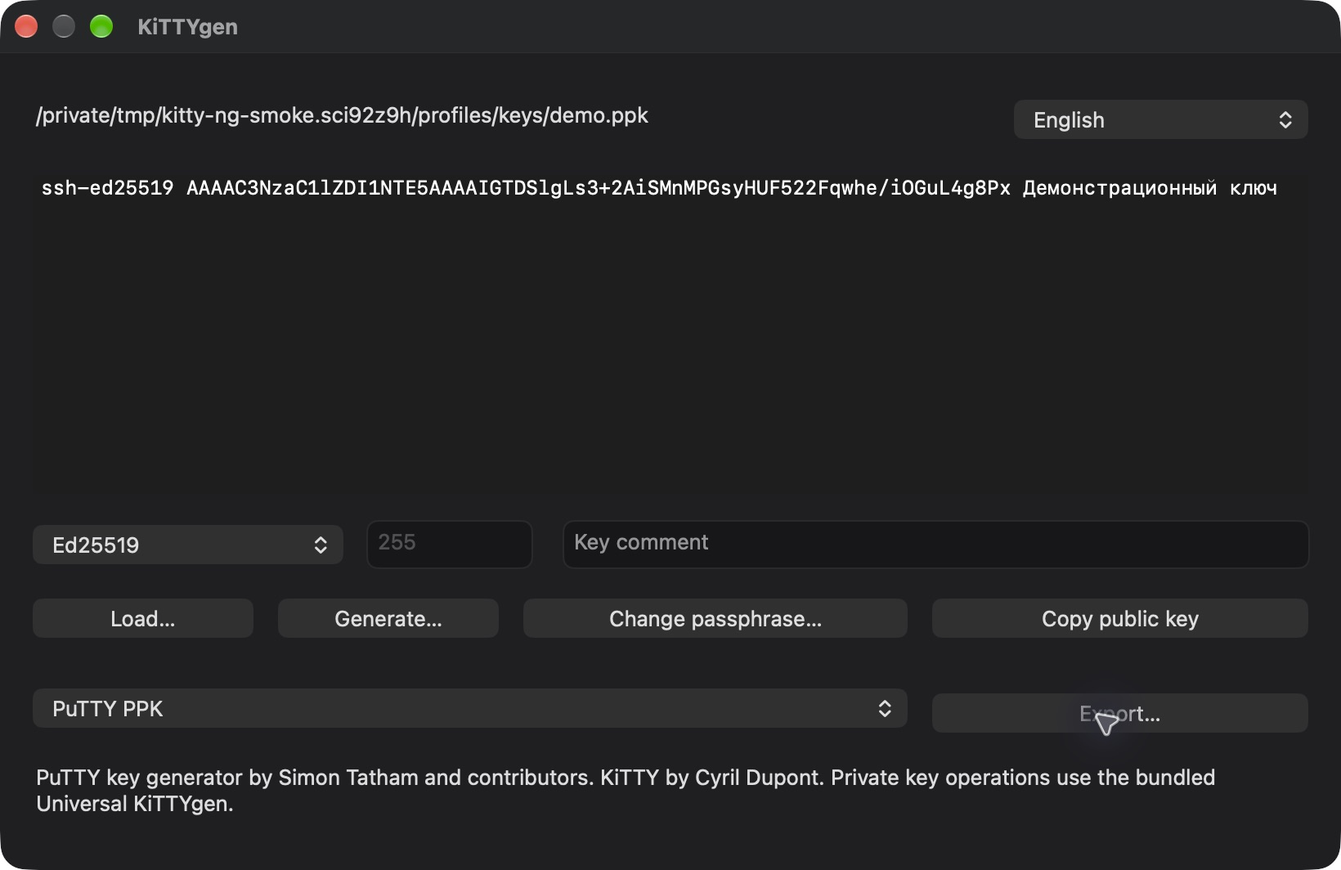
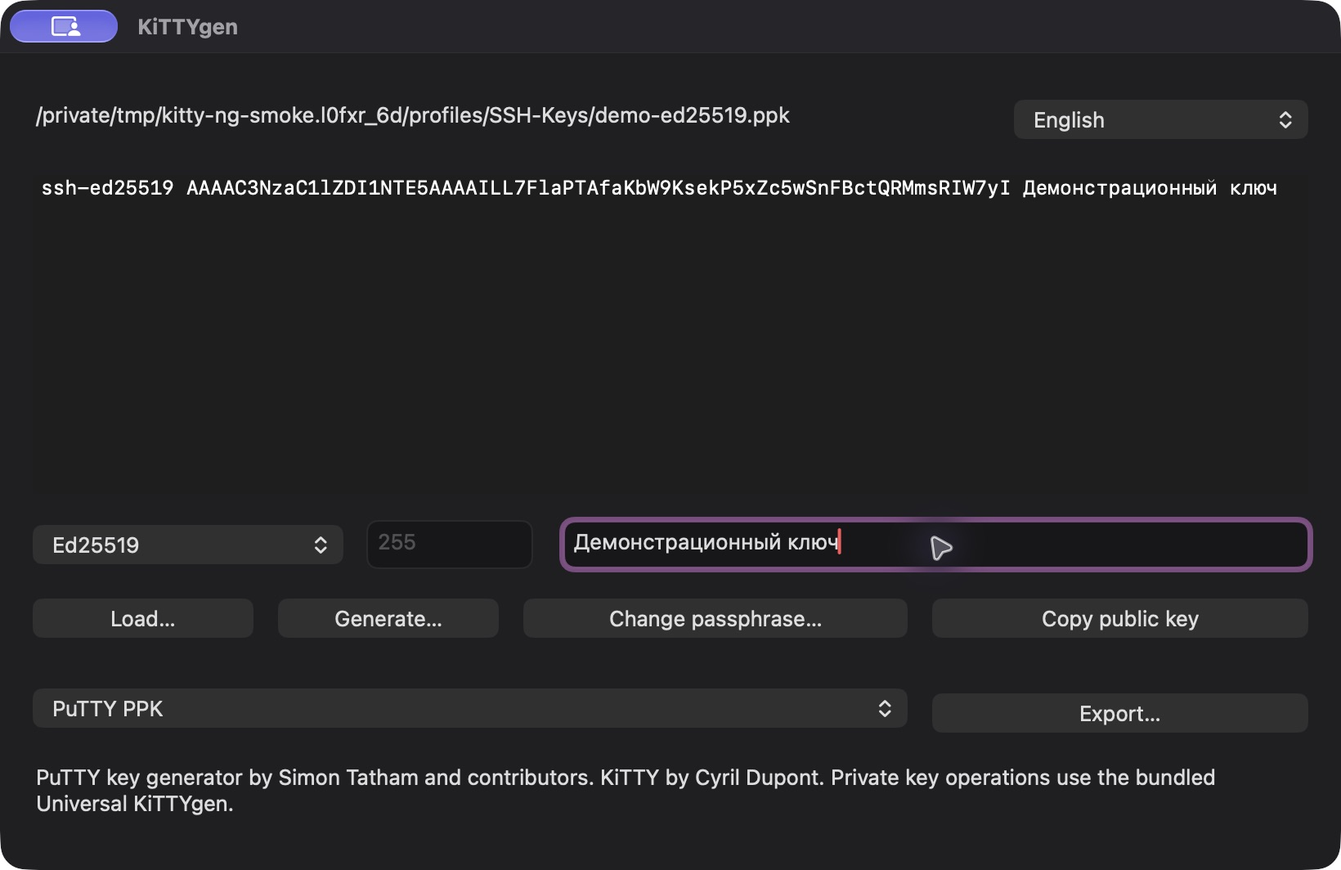
Проверить macOS 0.85-6 и подготовить общий коммит для финальной сборки

diff --git a/tools/macos-reuse-runtime.py b/tools/macos-reuse-runtime.py
@@ -1,0 +1,72 @@
+"""Reuse same-version helper acceptance only for byte-identical Mach-O payloads.
+
+Ignore only the embedded 40-byte source commit, LC_UUID and native code signatures.
+Version strings, executable instructions, other constants and all slice structure
+remain part of the comparison. Original execution hashes/results are retained.
+"""
+import argparse
+import hashlib
+import importlib.util
+import json
+from pathlib import Path
+import struct
+
+ROOT=Path(__file__).resolve().parents[1]
+spec=importlib.util.spec_from_file_location('verify_macos',ROOT/'tools/verify-macos.py')
+validator=importlib.util.module_from_spec(spec);spec.loader.exec_module(validator)
+
+
+def fingerprint(path,commit):
+    assert len(commit)==40
+    result={}
+    for cpu,raw in validator.slices(path.read_bytes()):
+        data=bytearray(raw)
+        assert data[:4]==b'\xcf\xfa\xed\xfe'
+        cursor=32
+        for _ in range(struct.unpack_from('<I',data,16)[0]):
+            command,size=struct.unpack_from('<II',data,cursor)
+            assert size>=8 and cursor+size<=len(data)
+            if command==0x1b:
+                assert size==24;data[cursor+8:cursor+24]=bytes(16)
+            elif command==0x1d:
+                offset,length=struct.unpack_from('<II',data,cursor+8)
+                assert offset+length<=len(data);data[offset:offset+length]=bytes(length)
+            cursor+=size
+        assert commit.encode() in data,'Missing embedded source commit'
+        result[str(cpu)]=hashlib.sha256(bytes(data).replace(commit.encode(),b'0'*40)).hexdigest()
+    return result
+
+
+def main():
+    parser=argparse.ArgumentParser(description=__doc__)
+    parser.add_argument('mode',choices=('capture','reuse'))
+    parser.add_argument('--output',type=Path,default=ROOT/'dist/macos-native')
+    parser.add_argument('--evidence',type=Path,required=True)
+    args=parser.parse_args();dest=args.output
+    build=json.loads((dest/'macos-build.json').read_text())
+    assert build['status']=='success' and not build['working_tree_dirty']
+    commit=build['source_commit'];helpers=dest/'KiTTY-ng.app/Contents/Helpers'
+    hashes={p.name:hashlib.sha256(p.read_bytes()).hexdigest() for p in helpers.iterdir() if p.is_file()}
+    payloads={name:fingerprint(helpers/name,commit) for name in hashes}
+    if args.mode=='capture':
+        reports={arch:json.loads((dest/f'runtime-{arch}.json').read_text()) for arch in ('arm64','x86_64')}
+        for arch,report in reports.items():
+            assert report['status']=='passed' and report['binaries_sha256']==hashes
+        args.evidence.write_text(json.dumps(dict(build=build,payloads=payloads,execution_reports=reports),indent=2)+'\n')
+        print('Saved exact same-version execution evidence:',commit)
+    else:
+        prior=json.loads(args.evidence.read_text());old=prior['build']
+        assert old['version']==build['version']
+        for key in ('compiler','sdk','deployment_target'):assert old[key]==build[key]
+        assert payloads==prior['payloads'],'Helper payload changed: execute affected runtime checks'
+        for arch,tested in prior['execution_reports'].items():
+            report=dict(tested)
+            report.update(version=build['version'],source_commit=commit,binaries_sha256=hashes,
+                tested_source_commit=old['source_commit'],tested_binaries_sha256=tested['binaries_sha256'],
+                execution_reused=True,reuse_proof='All helper Mach-O bytes equal after excluding only commit string, LC_UUID and code signature',
+                payload_sha256=payloads)
+            (dest/f'runtime-{arch}.json').write_text(json.dumps(report,indent=2)+'\n')
+        print('PASS: exact helper payload equality; previous same-version SSH/SCP/SFTP/agent results reused')
+
+
+if __name__=='__main__':main()

diff --git a/tools/macos-native-build.py b/tools/macos-native-build.py
@@ -95,16 +95,17 @@ def main():
         all(previous.get(k) == report[k] for k in ('compiler','sdk','deployment_target'))):
         changed = output(['git','diff','--name-only',previous['source_commit'],report['source_commit']]).splitlines()
         source_changes = [p for p in changed if Path(p).suffix in ('.c','.h','.m','.cmake','.pl') or Path(p).name in ('CMakeLists.txt','VERSION')]
-        # The session browser does not affect protocol units, helper binaries,
-        # key interoperability or the existing language/portable smoke cases.
-        reuse_unaffected = source_changes == ['macos/bootstrap.m'] and not any(
+        # App-only Objective-C changes do not affect core units or helpers.
+        # Changed localization/UI smoke cases are rerun separately below.
+        reuse_unaffected = bool(source_changes) and set(source_changes)<=set((
+            'macos/bootstrap.m','macos/language.m','macos/selftest-ui.m')) and not any(
             p in changed for p in ('test/macos_native_keys.py','macos/Smoke-test KiTTY-ng.command'))
         if reuse_unaffected:
             old_helpers=dest/'KiTTY-ng.app/Contents/Helpers'
             report['unchanged_helper_evidence']=dict(source_commit=previous['source_commit'],
                 changed_source_files=source_changes,
                 tested_binaries_sha256={p.name:hashlib.sha256(p.read_bytes()).hexdigest() for p in old_helpers.iterdir() if p.is_file()})
-            report['reused_checks_reason']='Only the native session-browser implementation changed; existing core/helper/language tests are unaffected'
+            report['reused_checks_reason']='Only app-specific Objective-C changed; existing core/helper tests are unaffected; changed UI smoke cases run again'
     report['fingerprint'] = fingerprint
     environment = os.environ.copy()
     environment.update(LC_ALL='C', LANG='C')
@@ -145,6 +146,8 @@ def main():
                     print('REUSE: unchanged compilation', arch, flush=True)
                 binaries[arch] = cache
                 checks = dict(previous.get('native_tests',{}).get(arch,{})) if previous.get('fingerprint')==fingerprint or reuse_unaffected else {}
+                if reuse_unaffected and any(p in source_changes for p in ('macos/language.m','macos/selftest-ui.m')):
+                    checks.pop('smoke',None)
                 report['native_tests'][arch] = checks
                 for name in UNIT_TESTS:
                     if checks.get(name)=='passed' and not args.force_tests:

diff --git a/test/macos_native_runtime.py b/test/macos_native_runtime.py
@@ -25,6 +25,7 @@ def main():
     parser.add_argument('--gui-fixture',type=Path,help='Expose this disposable server for native UI acceptance until the app quits')
     parser.add_argument('--gui-scp',action='store_true')
     parser.add_argument('--gui-automation',action='store_true')
+    parser.add_argument('--gui-key-auth',action='store_true',help='Require the disposable client key in GUI acceptance')
     parser.add_argument('--proxies-only',action='store_true',help='Run only new loopback HTTP/SOCKS5 proxy checks')
     args=parser.parse_args()
     helpers=args.app.resolve()/'Contents/Helpers'
@@ -49,7 +50,7 @@ def main():
         env['KITTY_NG_PORTABLE_DIR']=str(settings)
         env.pop('KITTY_NG_GUI_PROMPTS',None)
         env.pop('SSH_AUTH_SOCK',None)
-        mode={'auth':'password'}
+        mode={'auth':'publickey' if args.gui_fixture and args.gui_key_auth else 'password'}
         gui_state={'connections':0,'commands':[],'outage_injected':False}
         def update_gui():
             if args.gui_fixture:
@@ -263,6 +264,9 @@ def main():
                 return
             if args.gui_fixture:
                 save_profile()
+                if args.gui_key_auth:
+                    empty=root/'empty-passphrase';empty.write_text('\n')
+                    invoke('kittygen',settings/'SSH-Keys/client.openssh','-O','private','-o',settings/'SSH-Keys/client.ppk','--new-passphrase',empty)
                 with profile.open('a') as stream:
                     destination="/приём с пробелами'$(literal)" if args.gui_scp else '/'
                     resolve(destination).mkdir(exist_ok=True)

diff --git a/macos/language.m b/macos/language.m
@@ -40,7 +40,10 @@ NSString *kr_mac_localize_string(NSString *text){
 
     for(size_t i=0;i<lenof(ui_strings);i++){NSString *en=[NSString stringWithUTF8String:ui_strings[i].en],*ru=[NSString stringWithUTF8String:ui_strings[i].ru];if([text isEqualToString:en]||[text isEqualToString:ru])return kr_mac_language()?ru:en;}return text;
 }
-void kr_mac_localize_menu(NSMenu *menu){for(NSMenuItem *item in menu.itemArray){item.title=kr_mac_localize_string(item.title);if(item.submenu)kr_mac_localize_menu(item.submenu);}}
+void kr_mac_localize_menu(NSMenu *menu){
+    menu.title=kr_mac_localize_string(menu.title);
+    for(NSMenuItem *item in menu.itemArray){item.title=kr_mac_localize_string(item.title);if(item.submenu)kr_mac_localize_menu(item.submenu);}
+}
 void kr_mac_localize_view(NSView *view){
     if([view.identifier isEqualToString:@"KiTTYNG.RawData"])return;
     /* Never recurse into AppKit controls: their private buttons/cells have

diff --git a/macos/selftest-ui.m b/macos/selftest-ui.m
@@ -29,6 +29,13 @@ int kr_mac_self_test_ui(void){
     CHECK([edit itemAtIndex:2].action==@selector(paste:));
     CHECK([edit itemAtIndex:3].action==@selector(selectAll:));
     for(NSMenuItem *item in edit.itemArray)CHECK(item.target==nil&&item.keyEquivalent.length==1);
+    for(int language=0;language<2;language++){
+        CHECK(kr_mac_set_language(language));kr_mac_localize_menu(app.mainMenu);
+        NSString *title=language?@"Изменить":@"Edit";
+        CHECK([edit.title isEqualToString:title]);
+        CHECK([app.mainMenu.itemArray.lastObject.title isEqualToString:title]);
+        CHECK([[edit itemAtIndex:1].title isEqualToString:language?@"Копировать":@"Copy"]);
+    }
     CHECK(kr_mac_test_keygen_ui()==0);
     puts("PASS: native AppKit language round-trips, search cell/data preserved, stable language names, initial SSH/22 defaults");return 0;
 #undef CHECK

diff --git a/docs/releases/0.85-6-windows-return.md b/docs/releases/0.85-6-windows-return.md
@@ -1,0 +1,45 @@
+# Обратная передача 0.85-6 из Mac-чата
+
+Mac-пакет готовится в той же синхронизируемой папке KiTTY-NG. Версию **0.85-6** повторно не повышать. Исходная Windows/Linux-база — `b31bc612a6660acbc83d5ec2e8916fb7da835e28`.
+
+Точный итоговый коммит, SHA-256 DMG, инструменты и состояние происхождения записываются в `dist/macos-native/macos-0.85-6-delivery.json`. Источник передаётся локальным Git bundle `dist/macos-source-0.85-6.bundle`; коммит также виден в Git Mac-копии. Пакет — `dist/macos-native/kitty-ng-0.85-6-macos-universal.dmg`.
+
+## Изменения после b31bc61
+
+- Исправлена локализация заголовка NSMenu: при RU→EN заголовок «Изменить» оставался русским, хотя пункты переводились. `macos/language.m` теперь переводит и сам NSMenu, в `macos/selftest-ui.m` добавлен regression test RU/EN.
+- В loopback fixture добавлен режим `--gui-key-auth` для реального быстрого подключения с закрытым ключом.
+- Пересняты четыре Mac-окна RU/EN с синтетическими профилями/ключом. Дополнены документация и заметки выпуска; README RU/EN подготовлены со ссылками 0.85-6 для общей публикации.
+- Сборщик использует незатронутые результаты ядра/ключей, но повторяет изменённый AppKit smoke. `tools/macos-reuse-runtime.py` допускает повторное использование только результатов **той же версии** при строгом равенстве payload всех пяти помощников: игнорируются исключительно коммит, LC_UUID и подпись; исходные execution hashes сохраняются. При несовпадении выполняются новые проверки. Проверки `tools/release-build.py` не ослаблены.
+
+## Действия Windows-чата
+
+1. Сначала проверить `git status`, сохранить свои изменения. Не выполнять reset/clean. Если локальный Git Windows ещё на b31bc61, получить Mac-коммит без перезаписи файлов:
+
+   ```powershell
+   git fetch dist/macos-source-0.85-6.bundle main:refs/remotes/macos/main
+   git merge --ff-only refs/remotes/macos/main
+   ```
+
+2. Сверить HEAD с `source_commit` в `macos-0.85-6-delivery.json`. Все пять имеющихся пакетов Windows/Linux и их отчёты первоначально относятся к b31bc61 и сохраняются неизменными до начала финальной пересборки. Не заменять source_commit вручную.
+3. Из **этого же итогового коммита** пересобрать/перепаковать Windows/Linux с актуальным стабильным компилятором. Не запускать macOS на Windows:
+
+   ```powershell
+   python tools/local-build.py
+   python tools/local-build.py --platform linux
+   python tools/linux-package-windows.py
+   ```
+
+   Сохранить незатронутые успешные проверки согласно механизму зависимостей; нативная Linux-проверка должна соответствовать реально поставляемым бинарникам. Проверить версии всех EXE и архивов, README/документацию, `dist/local-build.json`, `build/linux-windows/linux-cross-build.json`, `dist/linux/linux-package.json`, `dist/linux/native-acceptance.json`.
+4. Не менять отслеживаемые исходники или документы после согласования коммита. Если правки всё же нужны — передать новый коммит обратно Mac-чату для корректной переупаковки Mac, сохраняя 0.85-6. Встроенные коммиты и отчёты не подделывать.
+5. После синхронизации финальных артефактов проверить одинаковую версию и происхождение всех шести пакетов. Сборку общего комплекта выполнить на Mac, где доступен настоящий bundle/помощники и нативные отчёты:
+
+   ```sh
+   python3 tools/release-build.py --assemble-only --macos-dir dist/macos-native
+   python3 tools/publish-release.py
+   ```
+
+   Публикация разрешена исходной передачей только при успешном согласовании происхождения. До этого не создавать тег/черновик и не объявлять общий выпуск готовым. Предыдущие GitHub-релизы и вложения сохранять.
+
+## Проверки Mac и очистка
+
+Подробные фактические результаты — `gui-acceptance.json`, `runtime-arm64.json`, `runtime-x86_64.json`, `macos-build.json`, `macos-dmg.json` и [нативный отчёт](../macos-native-validation.md). x86_64 — Rosetta, физический Intel/macOS 13 не проверялись. Подпись ad-hoc без notarization. Только временные Mac-зависимости и промежуточные каталоги удаляются; компиляторы/SDK, конечный DMG и успешные отчёты сохраняются.

diff --git a/docs/macos-native-validation.md b/docs/macos-native-validation.md
@@ -1,3 +1,21 @@
+# Нативная подготовка macOS 0.85-6 — 15 октября 2026
+
+База передачи Windows/Linux — `b31bc612a6660acbc83d5ec2e8916fb7da835e28`. Файлы в синхронизируемой папке сверены с этим коммитом до начала работы. Исходные пакеты и отчёты Windows/Linux сохраняются побайтно; их контрольные суммы зафиксированы в `dist/macos-native/macos-0.85-6-preflight.json`.
+
+Собраны все шесть Universal 2 файлов (arm64 + x86_64), системный SDK 27.0, официальный стабильный LLVM 23.1.3, CMake 4.4.4, Ninja 1.13.2. Нативные unit/AppKit/CLI проверки и PPK/OpenSSH interoperability выполнены для 0.85-6 на обоих срезах; результаты 0.85-5 не используются вместо них. SSH/password/keyboard-interactive/key/agent, SCP/SFTP/Unicode/recursive/batch и отказ неверного host key прошли на обоих срезах 0.85-6.
+
+В живом ARM64 GUI проверены настоящие Cmd+A/C/V/X в поиске, имени профиля, хосте, пользователе, путях ключа/сертификата, полях прокси, комментарии KiTTYgen и SSH-запросе имени. В защищённых полях проверена вставка, а Copy/Cut остаются запрещёнными средствами AppKit. Быстрое соединение с паролем и отдельными SSH-запросами устанавливается на loopback; Ctrl+C доходит до сервера, Cmd+C/V копирует и вставляет выбранный текст терминала.
+
+Быстрое подключение начинает с SSH/22, отклоняет порт 0, отменяется без записи, создаёт и дублирует временный Conf без имени профиля. После закрытия окон имена и байты Sessions, включая синтетический Default Settings с включённым SaveOnExit, не меняются. Семь кнопок полностью видны при минимальном размере окна 1020×420 в RU/EN. Четыре снимка главного окна/KiTTYgen пересняты с синтетическими данными; ключ и комментарий сохраняются при смене языка. Дополнительные проверки x86_64 через Rosetta, ключевого соединения и --askpass фиксируются по фактическим результатам в `gui-acceptance.json`.
+
+Найден и исправлен дефект новой локализации меню: при RU→EN переводились пункты, но заголовок NSMenu оставался русским. Теперь локализуется и сам заголовок; добавлен AppKit regression test. Остальные подготовленные исправления не меняли формат портативных профилей.
+
+После фиксации документации/снимков пакет пересобирается с настоящим коммитом. Успешные проверки неизменившихся помощников 0.85-6 допускается использовать повторно только после сравнения Mach-O: все байты, включая код, константы версии и структуру срезов, должны совпасть, кроме встроенного 40-символьного коммита, LC_UUID и подписи. Оригинальные execution hashes сохраняются; при любом ином различии проверки выполняются для новых файлов. Это проверяет `tools/macos-reuse-runtime.py`, не меняя source_commit задним числом.
+
+Итог: `dist/macos-native/kitty-ng-0.85-6-macos-universal.dmg`, `macos-build.json`, `macos-dmg.json`, `gui-acceptance.json`, `runtime-arm64.json`, `runtime-x86_64.json`, `SHA256SUMS.txt`. Подпись ad-hoc, монтирование/байты/права DMG проверяются нативно. Физический Intel, macOS 13, действующий Kerberos и аппаратный serial не проверялись. Общая публикация ожидает согласованного коммита Windows/Linux: [обратная передача](releases/0.85-6-windows-return.md).
+
+---
+
 # Нативная проверка macOS — 13 октября 2026
 
 [macOS](macos.md) · [Сборка](build.md) · [Область проверки](validation.md)

diff --git a/README.md b/README.md
@@ -1,6 +1,6 @@
 # KiTTY-ng
 
-Готовится **0.85-6**: быстрое подключение без сохранения сеанса в Linux/macOS и исправление команд редактирования в полях macOS. [Изменения](docs/releases/0.85-6.md). Ссылки ниже ведут на опубликованный выпуск до готовности всех платформ.
+Готовится **0.85-6**: быстрое подключение без сохранения сеанса в Linux/macOS и исправление команд редактирования в полях macOS. [Изменения](docs/releases/0.85-6.md). Ссылки подготовлены для 0.85-6 и станут доступны после общей публикации; её предваряет согласование происхождения всех пакетов.
 
 **Русский** | [English](README.en.md)
 
@@ -12,13 +12,13 @@
 
 ## Скачать
 
-| Платформа | Сборка 0.85-5 | Запуск |
+| Платформа | Сборка 0.85-6 | Запуск |
 | --- | --- | --- |
-| Linux x86_64 | [AppImage](https://github.com/nr084/kitty-ng/releases/download/v0.85-5/kitty-ng-0.85-5-x86_64.AppImage) · [AppDir](https://github.com/nr084/kitty-ng/releases/download/v0.85-5/kitty-ng-0.85-5-x86_64.tar.zst) | `chmod +x`, launch |
-| Windows x64 | [ZIP](https://github.com/nr084/kitty-ng/releases/download/v0.85-5/kitty-ng-0.85-5-x64.zip) | `kitty-ng-x64.exe` |
-| Windows x86 | [ZIP](https://github.com/nr084/kitty-ng/releases/download/v0.85-5/kitty-ng-0.85-5-x86.zip) | `kitty-ng-x86.exe` |
-| Windows arm64 | [ZIP](https://github.com/nr084/kitty-ng/releases/download/v0.85-5/kitty-ng-0.85-5-arm64.zip) | `kitty-ng-arm64.exe` |
-| macOS 13+ · Intel / Apple Silicon | [Universal DMG](https://github.com/nr084/kitty-ng/releases/download/v0.85-5/kitty-ng-0.85-5-macos-universal.dmg) | `KiTTY-ng.app` |
+| Linux x86_64 | [AppImage](https://github.com/nr084/kitty-ng/releases/download/v0.85-6/kitty-ng-0.85-6-x86_64.AppImage) · [AppDir](https://github.com/nr084/kitty-ng/releases/download/v0.85-6/kitty-ng-0.85-6-x86_64.tar.zst) | `chmod +x`, launch |
+| Windows x64 | [ZIP](https://github.com/nr084/kitty-ng/releases/download/v0.85-6/kitty-ng-0.85-6-x64.zip) | `kitty-ng-x64.exe` |
+| Windows x86 | [ZIP](https://github.com/nr084/kitty-ng/releases/download/v0.85-6/kitty-ng-0.85-6-x86.zip) | `kitty-ng-x86.exe` |
+| Windows arm64 | [ZIP](https://github.com/nr084/kitty-ng/releases/download/v0.85-6/kitty-ng-0.85-6-arm64.zip) | `kitty-ng-arm64.exe` |
+| macOS 13+ · Intel / Apple Silicon | [Universal DMG](https://github.com/nr084/kitty-ng/releases/download/v0.85-6/kitty-ng-0.85-6-macos-universal.dmg) | `KiTTY-ng.app` |
 
 [Все релизы и контрольные суммы](https://github.com/nr084/kitty-ng/releases). В комплекте клиент и пять утилит. Имена Windows EXE содержат архитектуру; версия указана внутри программ и в именах архивов.
 
@@ -66,7 +66,7 @@
 - [Windows](docs/windows.md) · [macOS](docs/macos.md) · [Linux](docs/linux.md).
 - [Портативные профили и переход с KiTTY](docs/portable.md).
 - [Локальная сборка](docs/build.md) · [Перенос расширений](docs/migration.md).
-- [Изменения 0.85-5](docs/releases/0.85-5.md) · [Следующие задачи](docs/planned.md).
+- [Изменения 0.85-6](docs/releases/0.85-6.md) · [Следующие задачи](docs/planned.md).
 
 ## Совместимость и проверка
 

diff --git a/README.en.md b/README.en.md
@@ -1,6 +1,6 @@
 # KiTTY-ng
 
-**0.85-6 is in preparation**: unsaved quick connections on Linux/macOS and standard editing shortcuts in macOS fields. [Release notes](docs/releases/0.85-6.md). Downloads below remain on the published release until all platforms are ready.
+**0.85-6 is in preparation**: unsaved quick connections on Linux/macOS and standard editing shortcuts in macOS fields. [Release notes](docs/releases/0.85-6.md). Download links are prepared for 0.85-6 and become available after coordinated publication of all packages.
 
 [Русский](README.md) | **English**
 
@@ -14,11 +14,11 @@
 
 | Platform | Release 0.85-5 | Launch |
 | --- | --- | --- |
-| Linux x86_64 | [AppImage](https://github.com/nr084/kitty-ng/releases/download/v0.85-5/kitty-ng-0.85-5-x86_64.AppImage) · [AppDir](https://github.com/nr084/kitty-ng/releases/download/v0.85-5/kitty-ng-0.85-5-x86_64.tar.zst) | `chmod +x`, launch |
-| Windows x64 | [ZIP](https://github.com/nr084/kitty-ng/releases/download/v0.85-5/kitty-ng-0.85-5-x64.zip) | `kitty-ng-x64.exe` |
-| Windows x86 | [ZIP](https://github.com/nr084/kitty-ng/releases/download/v0.85-5/kitty-ng-0.85-5-x86.zip) | `kitty-ng-x86.exe` |
-| Windows arm64 | [ZIP](https://github.com/nr084/kitty-ng/releases/download/v0.85-5/kitty-ng-0.85-5-arm64.zip) | `kitty-ng-arm64.exe` |
-| macOS 13+ · Intel / Apple Silicon | [Universal DMG](https://github.com/nr084/kitty-ng/releases/download/v0.85-5/kitty-ng-0.85-5-macos-universal.dmg) | `KiTTY-ng.app` |
+| Linux x86_64 | [AppImage](https://github.com/nr084/kitty-ng/releases/download/v0.85-6/kitty-ng-0.85-6-x86_64.AppImage) · [AppDir](https://github.com/nr084/kitty-ng/releases/download/v0.85-6/kitty-ng-0.85-6-x86_64.tar.zst) | `chmod +x`, launch |
+| Windows x64 | [ZIP](https://github.com/nr084/kitty-ng/releases/download/v0.85-6/kitty-ng-0.85-6-x64.zip) | `kitty-ng-x64.exe` |
+| Windows x86 | [ZIP](https://github.com/nr084/kitty-ng/releases/download/v0.85-6/kitty-ng-0.85-6-x86.zip) | `kitty-ng-x86.exe` |
+| Windows arm64 | [ZIP](https://github.com/nr084/kitty-ng/releases/download/v0.85-6/kitty-ng-0.85-6-arm64.zip) | `kitty-ng-arm64.exe` |
+| macOS 13+ · Intel / Apple Silicon | [Universal DMG](https://github.com/nr084/kitty-ng/releases/download/v0.85-6/kitty-ng-0.85-6-macos-universal.dmg) | `KiTTY-ng.app` |
 
 [All releases and checksums](https://github.com/nr084/kitty-ng/releases). Each package includes the client and five utilities. Windows EXE names include their architecture; versions are embedded in the programs and included in archive names.
 
@@ -66,7 +66,7 @@ The Mac app uses an ad-hoc signature without Developer ID or notarization. If bl
 - [Windows](docs/windows.en.md) · [macOS](docs/macos.en.md) · [Linux](docs/linux.en.md).
 - [Portable profiles and migration](docs/portable.en.md).
 - [Local builds](docs/build.en.md) · [Migration report](docs/migration.md) (Russian).
-- [0.85-5 release notes](docs/releases/0.85-5.md) · [Roadmap](docs/planned.md) (Russian).
+- [0.85-6 release notes](docs/releases/0.85-6.md) · [Roadmap](docs/planned.md) (Russian).
 
 ## Compatibility and validation
 

diff --git a/docs/validation.md b/docs/validation.md
@@ -1,10 +1,10 @@
-# Проверки 0.85-6 — Windows и Linux
+# Проверки 0.85-6 — Windows, Linux и macOS
 
 Windows x64/x86/ARM64 собраны локально на Windows стабильным LLVM-MinGW 20261006 (Clang 23.1.3). Нативные проверки x64/x86 пройдены; ARM64 проверена по PE/версии, повторный запуск на ARM64 в этой итерации не выполнялся.
 
 Linux x86_64 собран на Windows и проверен в Ubuntu 26.04 с Xfce/X11 обычным пользователем: быстрое подключение SSH без сохранения профиля/пароля, загрузка/скачивание и drag-and-drop, автоматические команды, сочетания клавиш, блокировка ввода, Shift+стрелки в Midnight Commander, переподключение. Проверки браузера охватывают RU/EN, SSH/22, отмену, создание/дублирование и сохранение неизвестных полей. Скриншоты Windows/Linux обновлены с синтетическими данными.
 
-macOS 0.85-6 здесь не собиралась и не запускалась. Изменения меню редактирования и быстрого подключения подготовлены в исходниках; нативные проверки, новые Mac-скриншоты и Universal DMG переданы в [промпте для Mac-чата](releases/0.85-6-macos-handoff.md). Полный синхронный выпуск ожидает Mac-пакет. Отчёты ниже относятся к предыдущей версии.
+macOS 0.85-6 собирается и проверяется на настоящем Mac: Universal 2, LLVM 23.1.3, arm64 и x86_64 через Rosetta. Нативные unit/AppKit/CLI, ключи и SSH/SCP/SFTP прошли для 0.85-6. В GUI проверены Cmd+C/V/X/A, защищённая вставка, быстрое подключение без записи профилей, отмена/неверный порт/дублирование и минимальный размер RU/EN; обновлены четыре Mac-снимка. Найден и исправлен перевод заголовка меню редактирования. [Подробный отчёт](macos-native-validation.md) и [обратная передача Windows](releases/0.85-6-windows-return.md). Общая публикация ожидает согласования происхождения всех шести пакетов. Ниже сохранена история 0.85-5.
 
 # Область проверки 0.85-5
 

diff --git a/docs/macos.en.md b/docs/macos.en.md
@@ -2,11 +2,11 @@
 
 [Documentation](README.en.md) | [Русский](macos.md)
 
-**Universal: Apple Silicon and Intel in one app.** Release 0.85-5 is supplied as a DMG and targets macOS 13 or later. The user confirmed basic operation on a MacBook Air M3. The app uses native AppKit UI and the PuTTY 0.85 core.
+**Universal: Apple Silicon and Intel in one app.** Release 0.85-6 is supplied as a DMG and targets macOS 13 or later. The user confirmed basic operation on a MacBook Air M3. The app uses native AppKit UI and the PuTTY 0.85 core.
 
 ## First launch
 
-1. Open `kitty-ng-0.85-5-macos-universal.dmg`.
+1. Open `kitty-ng-0.85-6-macos-universal.dmg`.
 2. Copy `KiTTY-ng.app` into a writable folder, beside Windows EXEs, `kitty.ini` and `Sessions` if sharing profiles.
 3. Eject the DMG and launch the copied app.
 4. If no sessions appear, click **Choose folder…** and select the portable root.
@@ -84,3 +84,7 @@ Captured on this Mac using synthetic profiles and a disposable test key.
 ![KiTTY-ng — English interface](screenshots/macos-session-en.png)
 
 ![KiTTYgen — English interface](screenshots/macos-kittygen-en.png)
+
+## Quick connections and editing
+
+The first Quick connect button opens temporary SSH/22 settings without a session name. Connect starts a temporary connection without writing a profile, Default Settings or password to Sessions. Cmd+A/C/V/X use the standard responder-chain Edit menu; secure fields retain AppKit clipboard restrictions. The terminal keeps Cmd+C/V and forwards control keys to the remote side.
